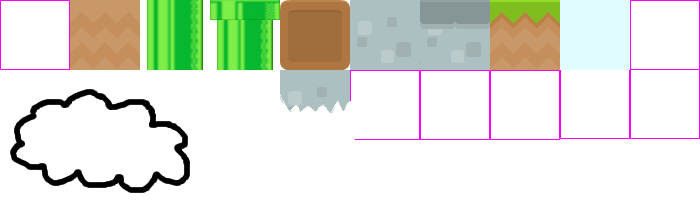
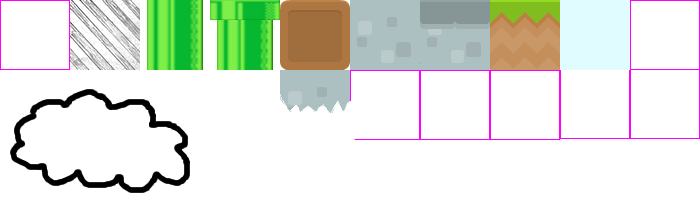
Began new era of graphics, lots of fixed issues such as the level glitch and added "scale" tag addable through tiled editor.

Changed region(s): [[0.09, 0.0, 0.21, 0.3429]]

diff --git a/game.js b/game.js
@@ -8,32 +8,109 @@
 
 var stageMaxX;
 var stageMaxY;
+var screenX = 960;
+var screenY = 640;
 
-var Q = Quintus({development: true})
-    .include("Sprites, Scenes, Input, 2D, Touch, UI")
+var Q = window.Q = Quintus({development: true})
+    .include("Sprites, Scenes, Input, 2D, Anim, Touch, UI")
     .setup({
-        width: 960,
-        height: 640,
+        width: screenX,
+        height: screenY,
         downsampleWidth: 1,
         downsampleHeight: 1
 //        maximize: true
     }).controls().touch();
 //load assets
 
-var level = "level5.tmx";
+var level = "level6.tmx";
 
+TileLayerProperties = Q.TileLayer.extend({
+    getSize: function()
+    {
+        var parser = new DOMParser(),
+            doc = parser.parseFromString(Q.asset(level), "application/xml");
+
+        var properties = doc.getElementsByTagName("property");
+        console.log("Properties is " + properties.length);
+        console.log(this.dataAsset);
+        for(var i = 0; i < properties.length; i++)
+        {
+            if(properties[i].getAttribute("name") == "size")
+            {
+                return parseFloat(properties[i].getAttribute("value"));
+            }
+        }
+
+
+
+
+//            width = parseInt(layer.getAttribute("width")),
+//            height = parseInt(layer.getAttribute("height"));
+//
+//        var data = [],
+//            tiles = layer.getElementsByTagName("tile"),
+//            idx = 0;
+//        for(var y = 0;y < height;y++) {
+//            data[y] = [];
+//            for(var x = 0;x < width;x++) {
+//                var tile = tiles[idx];
+//                data[y].push(parseInt(tile.getAttribute("gid")-1));
+//                idx++;
+//            }
+//        }
+    }
+});
+
+Q.animations('player', {
+    walk_right: { frames: [0,1], rate: 1/3},
+    walk_left: { frames: [2,3], rate: 1/3},
+    stand_left: { frames: [2], rate: 1/3},
+    stand_right: { frames: [1], rate: 1/3}
+//    run_right: { frames: [7,6,5,4,3,2,1], rate: 1/15},
+//    run_left: { frames: [19,18,17,16,15], rate:1/15 },
+//    fire_right: { frames: [9,10,10], next: 'stand_right', rate: 1/30, trigger: "fired" },
+//    fire_left: { frames: [20,21,21], next: 'stand_left', rate: 1/30, trigger: "fired" },
+//    stand_right: { frames: [8], rate: 1/5 },
+//    stand_left: { frames: [20], rate: 1/5 },
+//    fall_right: { frames: [2], loop: false },
+//    fall_left: { frames: [14], loop: false }
+});
 
 Q.Sprite.extend("Player",{
     init: function(p) {
-        this._super(p, { asset: "player.png", x: 110, y: 50, jumpSpeed: -580});
-        this.add('2d, platformerControls');
+        this._super(p, {
+//            asset: "autisticplayer.png",
+            sprite:"player",
+            sheet: "player",
+            x: 110,
+            y: 50,
+            jumpSpeed: -580});
+        this.right = true;
+        this.add('2d, platformerControls, animation');
     },
     step: function(dt) {
-        if(Q.inputs['left'] && this.p.direction == 'right') {
-            this.p.flip = 'x';
+//        if(Q.inputs['left'] && this.p.direction == 'right') {
+//            this.p.flip = 'x';
+//        }
+//        if(Q.inputs['right']  && this.p.direction == 'left') {
+//            this.p.flip = false;
+//        }
+        if(this.p.vx > 0)
+        {
+            this.right = true;
+            this.play("walk_right");
         }
-        if(Q.inputs['right']  && this.p.direction == 'left') {
-            this.p.flip = false;
+        if(this.p.vx < 0)
+        {
+            this.right = false;
+            this.play("walk_left");
+        }
+        if(this.p.vx == 0 || this.p.vy != 0)
+        {
+            if(this.right)
+                this.play("stand_right");
+            else
+                this.play("stand_left");
         }
 //        if(this.vy > 0)
 //            this.vx = this.vx * 2;
@@ -54,7 +131,7 @@ Q.Sprite.extend("Player",{
 
 Q.Sprite.extend("Enemy",{
     init: function(p) {
-        this._super(p, { asset: 'enemy.png', vx: 100 });
+        this._super(p, { asset: 'turdman.png', vx: 100 });
         this.add('2d, aiBounce');
 
         this.on("bump.left,bump.right,bump.bottom",function(collision) {
@@ -100,22 +177,39 @@ Q.Sprite.extend("Pipe",{
 
 Q.scene("level2", function(stage) {
     var background = new Q.TileLayer({ dataAsset: level, layerIndex: 0, sheet: 'tiles', tileW: 70, tileH: 70, type: Q.SPRITE_NONE });
-    stage.insert(background);
-//    var rep = new Q.Repeater({ asset: "background-wall.png", speedX: 0.5, speedY: 0.5 });
-//    stage.insert(rep);
+//    stage.insert(background);
+//    var midground = new Q.TileLayer({ dataAsset: level, layerIndex: 2, sheet: 'tiles', tileW: 70, tileH: 70, type: Q.SPRITE_NONE });
+//    stage.insert(midground);
+    var rep = new Q.Repeater({asset: "clouds2.png", speedX: 0.5, speedY: 0.5 });
+    stage.insert(rep);
 
-    stage.collisionLayer(new Q.TileLayer({ dataAsset: level, layerIndex:1,  sheet: 'tiles', tileW: 70, tileH: 70 }));
+
+    var world = new TileLayerProperties({ dataAsset: level, layerIndex:1,  sheet: 'tiles', tileW: 70, tileH: 70 });
+//    var prop = new TileLayerProperties({ dataAsset: level, layerIndex:1,  sheet: 'tiles', tileW: 70, tileH: 70 });
+    var scale = world.getSize();
+//    console.log(world.getSize());
+    if(scale == void 0)
+        scale = 1;
+    stage.collisionLayer(world);
     var player = stage.insert(new Q.Player());
     var enemy = stage.insert(new Q.Enemy({ x: 700, y: 0 }));
-    var pipe = stage.insert(new Q.Pipe());
+//    var pipe = stage.insert(new Q.Pipe());
     stageMaxX = background.p.w;
     stageMaxY = background.p.h;
-    stage.add("viewport").follow(player,{x: true, y: true},{minX: 0, maxX: background.p.w / 2, minY: 0, maxY: background.p.h / 2});
-    stage.viewport.scale = 0.5;
+    if(stageMaxX * scale < screenX)
+    {
+        Q.width = stageMaxX * scale;
+    }
+    if(stageMaxY * scale < screenY)
+    {
+        Q.height = stageMaxY * scale;
+    }
+    stage.add("viewport").follow(player,{x: true, y: true},{minX: 0, maxX: background.p.w * scale, minY: 0, maxY: background.p.h * scale});
+    stage.viewport.scale = scale;
 });
 
-Q.load("tiles_map.png, player.png, enemy.png, pipe.png, background-wall.png, " + level, function() {
+Q.load("tiles_map.png, autisticplayer.png, turdman.png, pipe.png, clouds2.png, " + level, function() {
     Q.sheet("tiles","tiles_map.png", { tilew: 70, tileh: 70});
+    Q.sheet("player","autisticplayer.png", { tilew: 70, tileh: 70});
     Q.stageScene("level2");
-//    console.log(new Q.TileLayer({ dataAsset: level, layerIndex: 2, sheet: 'tiles', tileW: 70, tileH: 70, type: Q.SPRITE_NONE }).blocks[0]);
 });
